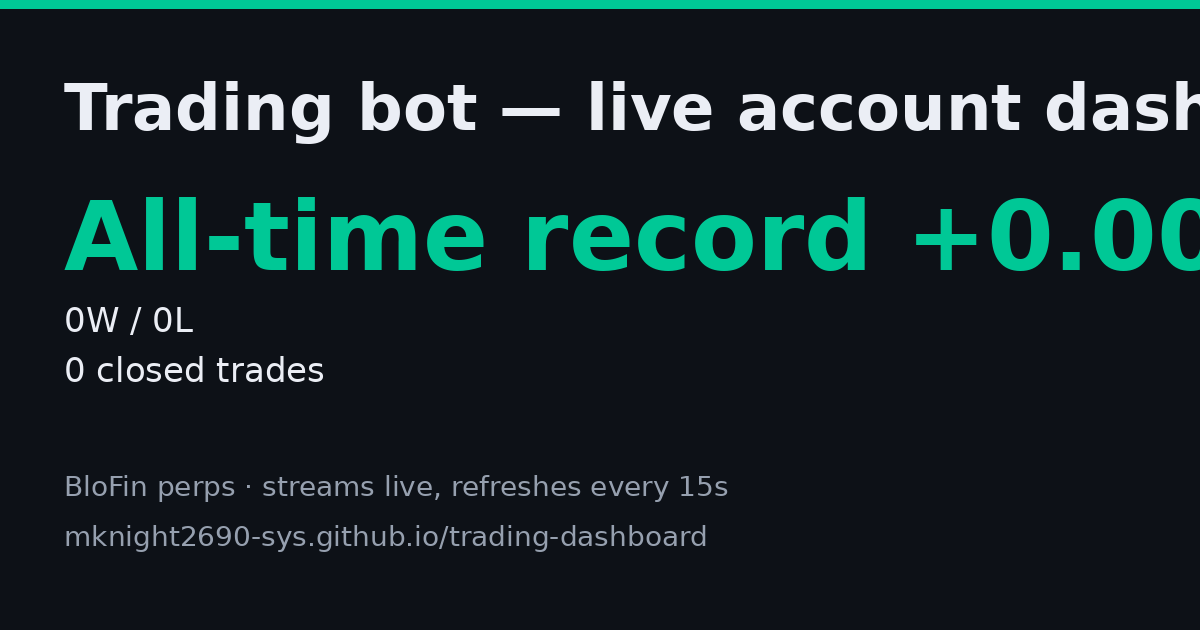
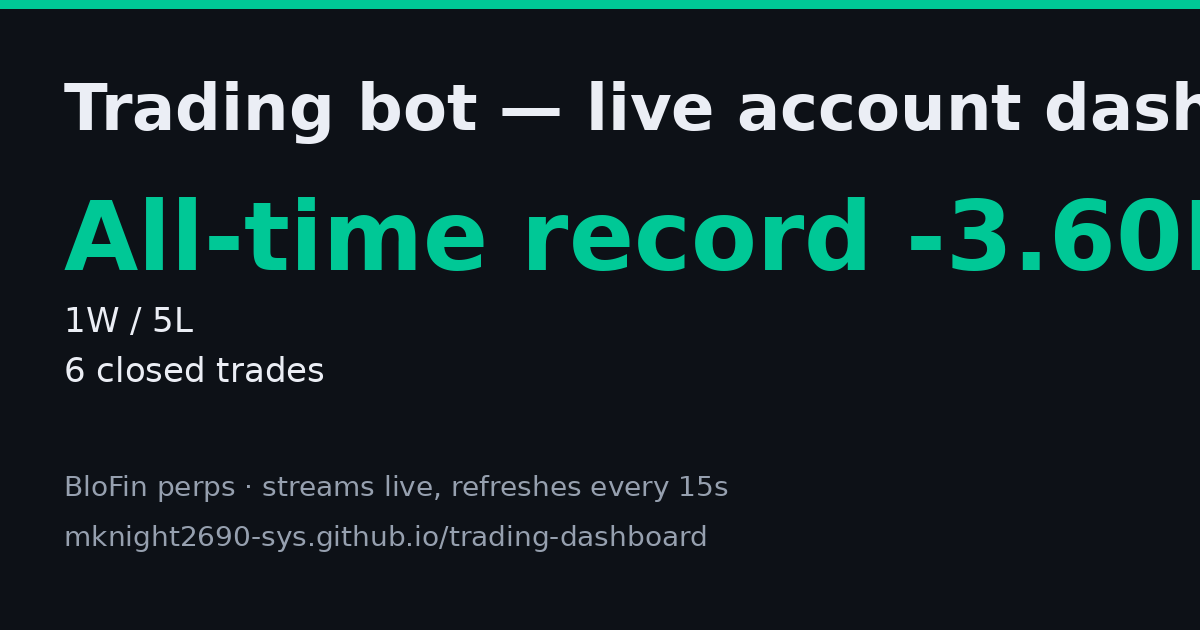
Update preview: 1W/5L -3.60R

diff --git a/index.html b/index.html
@@ -8,14 +8,14 @@
 <title>KnightTrader-Muse — Trading Dashboard</title>
 <meta property="og:type" content="website" />
 <meta property="og:title" content="KnightTrader-Muse — live trading dashboard" />
-<meta property="og:description" content="Live BloFin account the trading bot trades on. All-time record +0.00R (0W / 0L, 0 trades). Streams live and refreshes every 15 seconds." />
+<meta property="og:description" content="Live BloFin account the trading bot trades on. All-time record -3.60R (1W / 5L, 6 trades). Streams live and refreshes every 15 seconds." />
 <meta property="og:url" content="https://mknight2690-sys.github.io/trading-dashboard/" />
 <meta property="og:image" content="https://mknight2690-sys.github.io/trading-dashboard/preview.png" />
 <meta property="og:image:width" content="1200" />
 <meta property="og:image:height" content="630" />
 <meta name="twitter:card" content="summary_large_image" />
 <meta name="twitter:title" content="KnightTrader-Muse — live trading dashboard" />
-<meta name="twitter:description" content="Live BloFin account the trading bot trades on. All-time record +0.00R (0W / 0L, 0 trades). Streams live and refreshes every 15 seconds." />
+<meta name="twitter:description" content="Live BloFin account the trading bot trades on. All-time record -3.60R (1W / 5L, 6 trades). Streams live and refreshes every 15 seconds." />
 <meta name="twitter:image" content="https://mknight2690-sys.github.io/trading-dashboard/preview.png" />
 <link rel="preconnect" href="https://fonts.googleapis.com" />
 <link rel="preconnect" href="https://fonts.gstatic.com" crossorigin />
